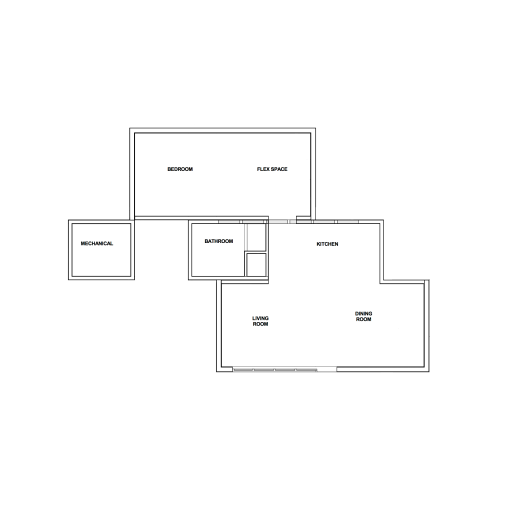
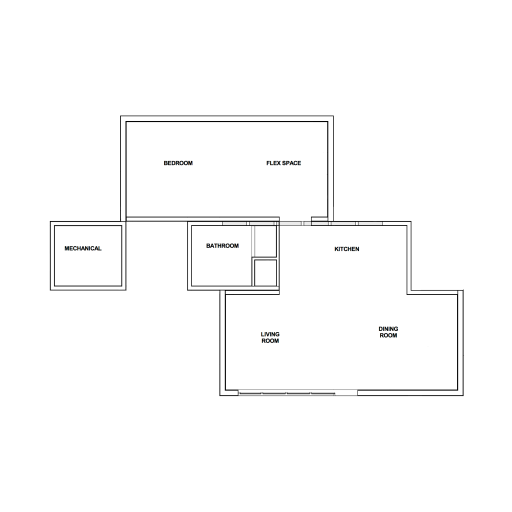
Removed light list and overlayed lights over floorplan

Changed region(s): [[0.0938, 0.2188, 0.9062, 0.7812], [0.6875, 0.5938, 0.7812, 0.6562], [0.3125, 0.3125, 0.375, 0.3438]]

diff --git a/SoDecApp/app/src/main/java/edu/calpoly/sodec/sodecapp/LightingActivity.java b/SoDecApp/app/src/main/java/edu/calpoly/sodec/sodecapp/LightingActivity.java
@@ -2,12 +2,12 @@ package edu.calpoly.sodec.sodecapp;
 
 import android.app.PendingIntent;
 import android.content.Intent;
-import android.content.res.Configuration;
 import android.os.Bundle;
 import android.support.v7.app.ActionBarActivity;
 import android.view.Gravity;
 import android.view.Menu;
 import android.view.MenuItem;
+import android.widget.FrameLayout;
 import android.widget.ImageView;
 import android.widget.LinearLayout;
 import android.widget.ScrollView;
@@ -20,7 +20,7 @@ public class LightingActivity extends ActionBarActivity {
 
     private LinearLayout pageLayout;
     private LinearLayout listLayout;
-    private LinearLayout floorplanLayout;
+    private FrameLayout floorplanLayout;
 
     private List<TextView> lightTexts = new ArrayList<TextView>();
     private List<ImageView> lightImages = new ArrayList<ImageView>();
@@ -44,64 +44,41 @@ public class LightingActivity extends ActionBarActivity {
     @Override
     protected void onResume() {
         super.onResume();
-        Integer orientation = getResources().getConfiguration().orientation;
+        /*Integer orientation = getResources().getConfiguration().orientation;
         if (orientation == Configuration.ORIENTATION_PORTRAIT) {
             pageLayout.setOrientation(LinearLayout.VERTICAL);
         } else {
             pageLayout.setOrientation(LinearLayout.HORIZONTAL);
-        }
+        }*/
+
+        //setupLightList();
+    }
+
+    @Override
+    public void onWindowFocusChanged(boolean hasFocus) {
+        super.onWindowFocusChanged(hasFocus);
+        setupLightList();
     }
 
     @Override
     protected void onCreate(Bundle savedInstanceState) {
         super.onCreate(savedInstanceState);
 
-        pageLayout = new LinearLayout(this);
-        pageLayout.setOrientation(LinearLayout.HORIZONTAL);
-        pageLayout.setShowDividers(LinearLayout.SHOW_DIVIDER_MIDDLE);
-        pageLayout.setWeightSum(2);
+        floorplanLayout = new FrameLayout(this);
 
-        LinearLayout.LayoutParams params = new LinearLayout.LayoutParams(LinearLayout.LayoutParams.MATCH_PARENT,LinearLayout.LayoutParams.MATCH_PARENT);//pageLayout.getLayoutParams();
-        params.weight = 2;
-        pageLayout.setLayoutParams(params);
-
-        floorplanLayout = new LinearLayout(pageLayout.getContext());
-        floorplanLayout.setGravity(Gravity.CENTER);
-        params = new LinearLayout.LayoutParams(LinearLayout.LayoutParams.MATCH_PARENT, LinearLayout.LayoutParams.MATCH_PARENT);
-        params.weight = 1;
-        floorplanLayout.setLayoutParams(params);
-
-        view = new ScrollView(pageLayout.getContext());
-        view.setLayoutParams(params);
         floorplanView = new ImageView(floorplanLayout.getContext());
         floorplanView.setImageResource(R.drawable.floorplan);
-        floorplanView.setScaleType(ImageView.ScaleType.FIT_CENTER);
-        listLayout = new LinearLayout(view.getContext());
-        listLayout.setOrientation(LinearLayout.VERTICAL);
-        listLayout.setWeightSum(1);
-        listLayout.setLayoutParams(params);
-
-        view.addView(listLayout);
-
-
-        setupLightList();
-
-        //setupView();
+        floorplanView.setScaleType(ImageView.ScaleType.FIT_XY);
         floorplanLayout.addView(floorplanView);
 
-        pageLayout.addView(floorplanLayout);
-        pageLayout.addView(view);
-        setContentView(pageLayout);
+        setContentView(floorplanLayout);
 
         initSensorCollection();
     }
 
     public void setupLightList() {
         for (LightDevice light : lightUtils.lights) {
-            TextView ambLight = new TextView(listLayout.getContext());
-            ImageView image = new ImageView(listLayout.getContext());
-            LinearLayout labelLayout = new LinearLayout(listLayout.getContext());
-            labelLayout.setOrientation(LinearLayout.HORIZONTAL);
+            ImageView image = new ImageView(floorplanLayout.getContext());
 
             if (light.isOn) {
                 image.setImageResource(R.drawable.light_on);
@@ -109,24 +86,31 @@ public class LightingActivity extends ActionBarActivity {
                 image.setImageResource(R.drawable.light_off);
             }
 
-            image.setScaleX(0.5f);
-            image.setScaleY(0.5f);
+            image.setScaleX(0.05f);
+            image.setScaleY(0.05f);
 
-            ambLight.setText(light.description);
-            ambLight.setGravity(Gravity.CENTER);
+            double width = (double) floorplanLayout.getWidth();
+            double height = (double) floorplanLayout.getHeight();
+            int xTrans = (int) ((((double) light.location.x) / 100.0) * width);
+            xTrans = xTrans - ((int) (width / 2));
+            int yTrans = (int) (((double) (light.location.y) / 100.0) * height);
+            yTrans = yTrans - ((int) (height / 2));
+
+            image.setTranslationX(xTrans);
+            image.setTranslationY(-yTrans);
+            FrameLayout.LayoutParams params = new FrameLayout.LayoutParams(image.getWidth(), image.getHeight());
+            params.leftMargin = xTrans;
+            params.bottomMargin = yTrans;
+            params.gravity = Gravity.TOP;
 
             lightImages.add(image);
-            lightTexts.add(ambLight);
 
-            labelLayout.addView(image);
-            labelLayout.addView(ambLight);
-            labelLayout.setGravity(Gravity.CENTER_VERTICAL);
-            listLayout.addView(labelLayout);
+            floorplanLayout.addView(image);
         }
     }
 
     public void reloadData() {
-        for (int idx = 0; idx < lightTexts.size(); idx++) {
+        for (int idx = 0; idx < lightImages.size(); idx++) {
             ImageView image = lightImages.get(idx);
 
             if (lightUtils.lights.get(idx).isOn) {

diff --git a/SoDecApp/app/src/main/java/edu/calpoly/sodec/sodecapp/LightingUtils.java b/SoDecApp/app/src/main/java/edu/calpoly/sodec/sodecapp/LightingUtils.java
@@ -1,9 +1,12 @@
 package edu.calpoly.sodec.sodecapp;
 
+import android.graphics.Point;
+
 import org.json.JSONException;
 import org.json.JSONObject;
 
 import java.util.ArrayList;
+import java.util.Arrays;
 import java.util.List;
 import java.util.Random;
 
@@ -22,17 +25,26 @@ public class LightingUtils {
     public List<LightDevice> lights = new ArrayList<LightDevice>();
     public Integer numLightsOn = 0;
 
-    private String[] lightIds = new String[]{"s-light-entry-bookend-1A", "s-light-chandelier-1B", "s-light-tv-light-2A", "s-light-kitchen-uplight-3A", "s-light-under-counter-3B", "s-light-under-counter-3B", "s-light-under-counter-3B", "s-light-under-counter-3B", "s-light-flexspace-uplight-5A", "s-light-flexspace-uplight-5A", "s-light-bedroom-uplight-6A", "s-light-bedroom-cabinet-6B", "s-light-bedroom-cabinet-6B", "s-light-bedroom-cabinet-6B"};
+    private String[] lightIds = new String[]{"s-light-entry-bookend-1A", "s-light-chandelier-1B", "s-light-tv-light-2A", "s-light-kitchen-uplight-3A", "s-light-under-counter-3B", "s-light-pendant-bar-lights-3C", "s-light-bathroom-ambient-4A", "s-light-mirror-4B", "s-light-flexspace-uplight-5A", "s-light-flexspace-cabinet-5B", "s-light-bedroom-uplight-6A", "s-light-bedroom-cabinet-6B", "s-light-porch-lights-8A", "s-light-uplights-and-pot-lights-8B"};
     private String[] lightDescriptions = new String[]{"Entry Bookend Light", "Chandelier Light", "TV Light", "Kitchen Uplight Light", "Kitchen Under-Counter Light", "Kitchen Pendant Bar Lights", "Bathroom Light", "Bathroom Mirror Light", "Flexspace Uplight Light", "Flexspace Cabinet Light", "Bedroom Uplight Light", "Bedroom Cabinet Light", "Porch Lights", "Uplights/Pot Lights"};
+    private String[] roomNumbers = new String[]{"1A", "1B", "2A", "3A", "3B", "3C", "4A", "4B", "5A", "5B", "6A", "6B", "8A", "8B"};
+    private Point[] positions = new Point[]{new Point(70, 10), new Point(80, 20), new Point(50, 10), new Point(60, 50), new Point(67, 50), new Point(75, 50), new Point(40, 50), new Point(45, 50), new Point(50, 80), new Point(60, 80), new Point(30, 80), new Point(40, 80), new Point(20, 20), new Point(40, 20)};
 
     private void getLightDevices() {
         for(int idx = 0; idx < lightIds.length; idx++) {
-            lights.add(new LightDevice(lightIds[idx], lightDescriptions[idx]));
+            lights.add(new LightDevice(lightIds[idx], lightDescriptions[idx], getPositionFromID(lightIds[idx])));
         }
     }
 
     public LightingUtils() {
         getLightDevices();
+    }
+
+    private Point getPositionFromID(String id) {
+        String[] sections = id.split("-");
+        String roomNum = sections[sections.length - 1];
+        int positionIdx = Arrays.asList(roomNumbers).indexOf(roomNum);
+        return positions[positionIdx];
     }
 
     /*public void getNumLightsOn(ServerConnection.ResponseCallback<String, String> onFinish) {

diff --git a/SoDecApp/app/src/main/java/edu/calpoly/sodec/sodecapp/LightDevice.java b/SoDecApp/app/src/main/java/edu/calpoly/sodec/sodecapp/LightDevice.java
@@ -1,5 +1,7 @@
 package edu.calpoly.sodec.sodecapp;
 
+import android.graphics.Point;
+
 /**
  * Created by JustineDunham on 4/26/15.
  */
@@ -8,16 +10,19 @@ public class LightDevice {
     String id;
     String description;
     Boolean isOn;
+    Point location;
 
-    public LightDevice(String id, String description, Boolean isOn) {
+    public LightDevice(String id, String description, Boolean isOn, Point location) {
         this.id = id;
         this.description = description;
         this.isOn = isOn;
+        this.location = location;
     }
 
-    public LightDevice(String id, String description) {
+    public LightDevice(String id, String description, Point location) {
         this.id = id;
         this.description = description;
         isOn = false;
+        this.location = location;
     }
 }
